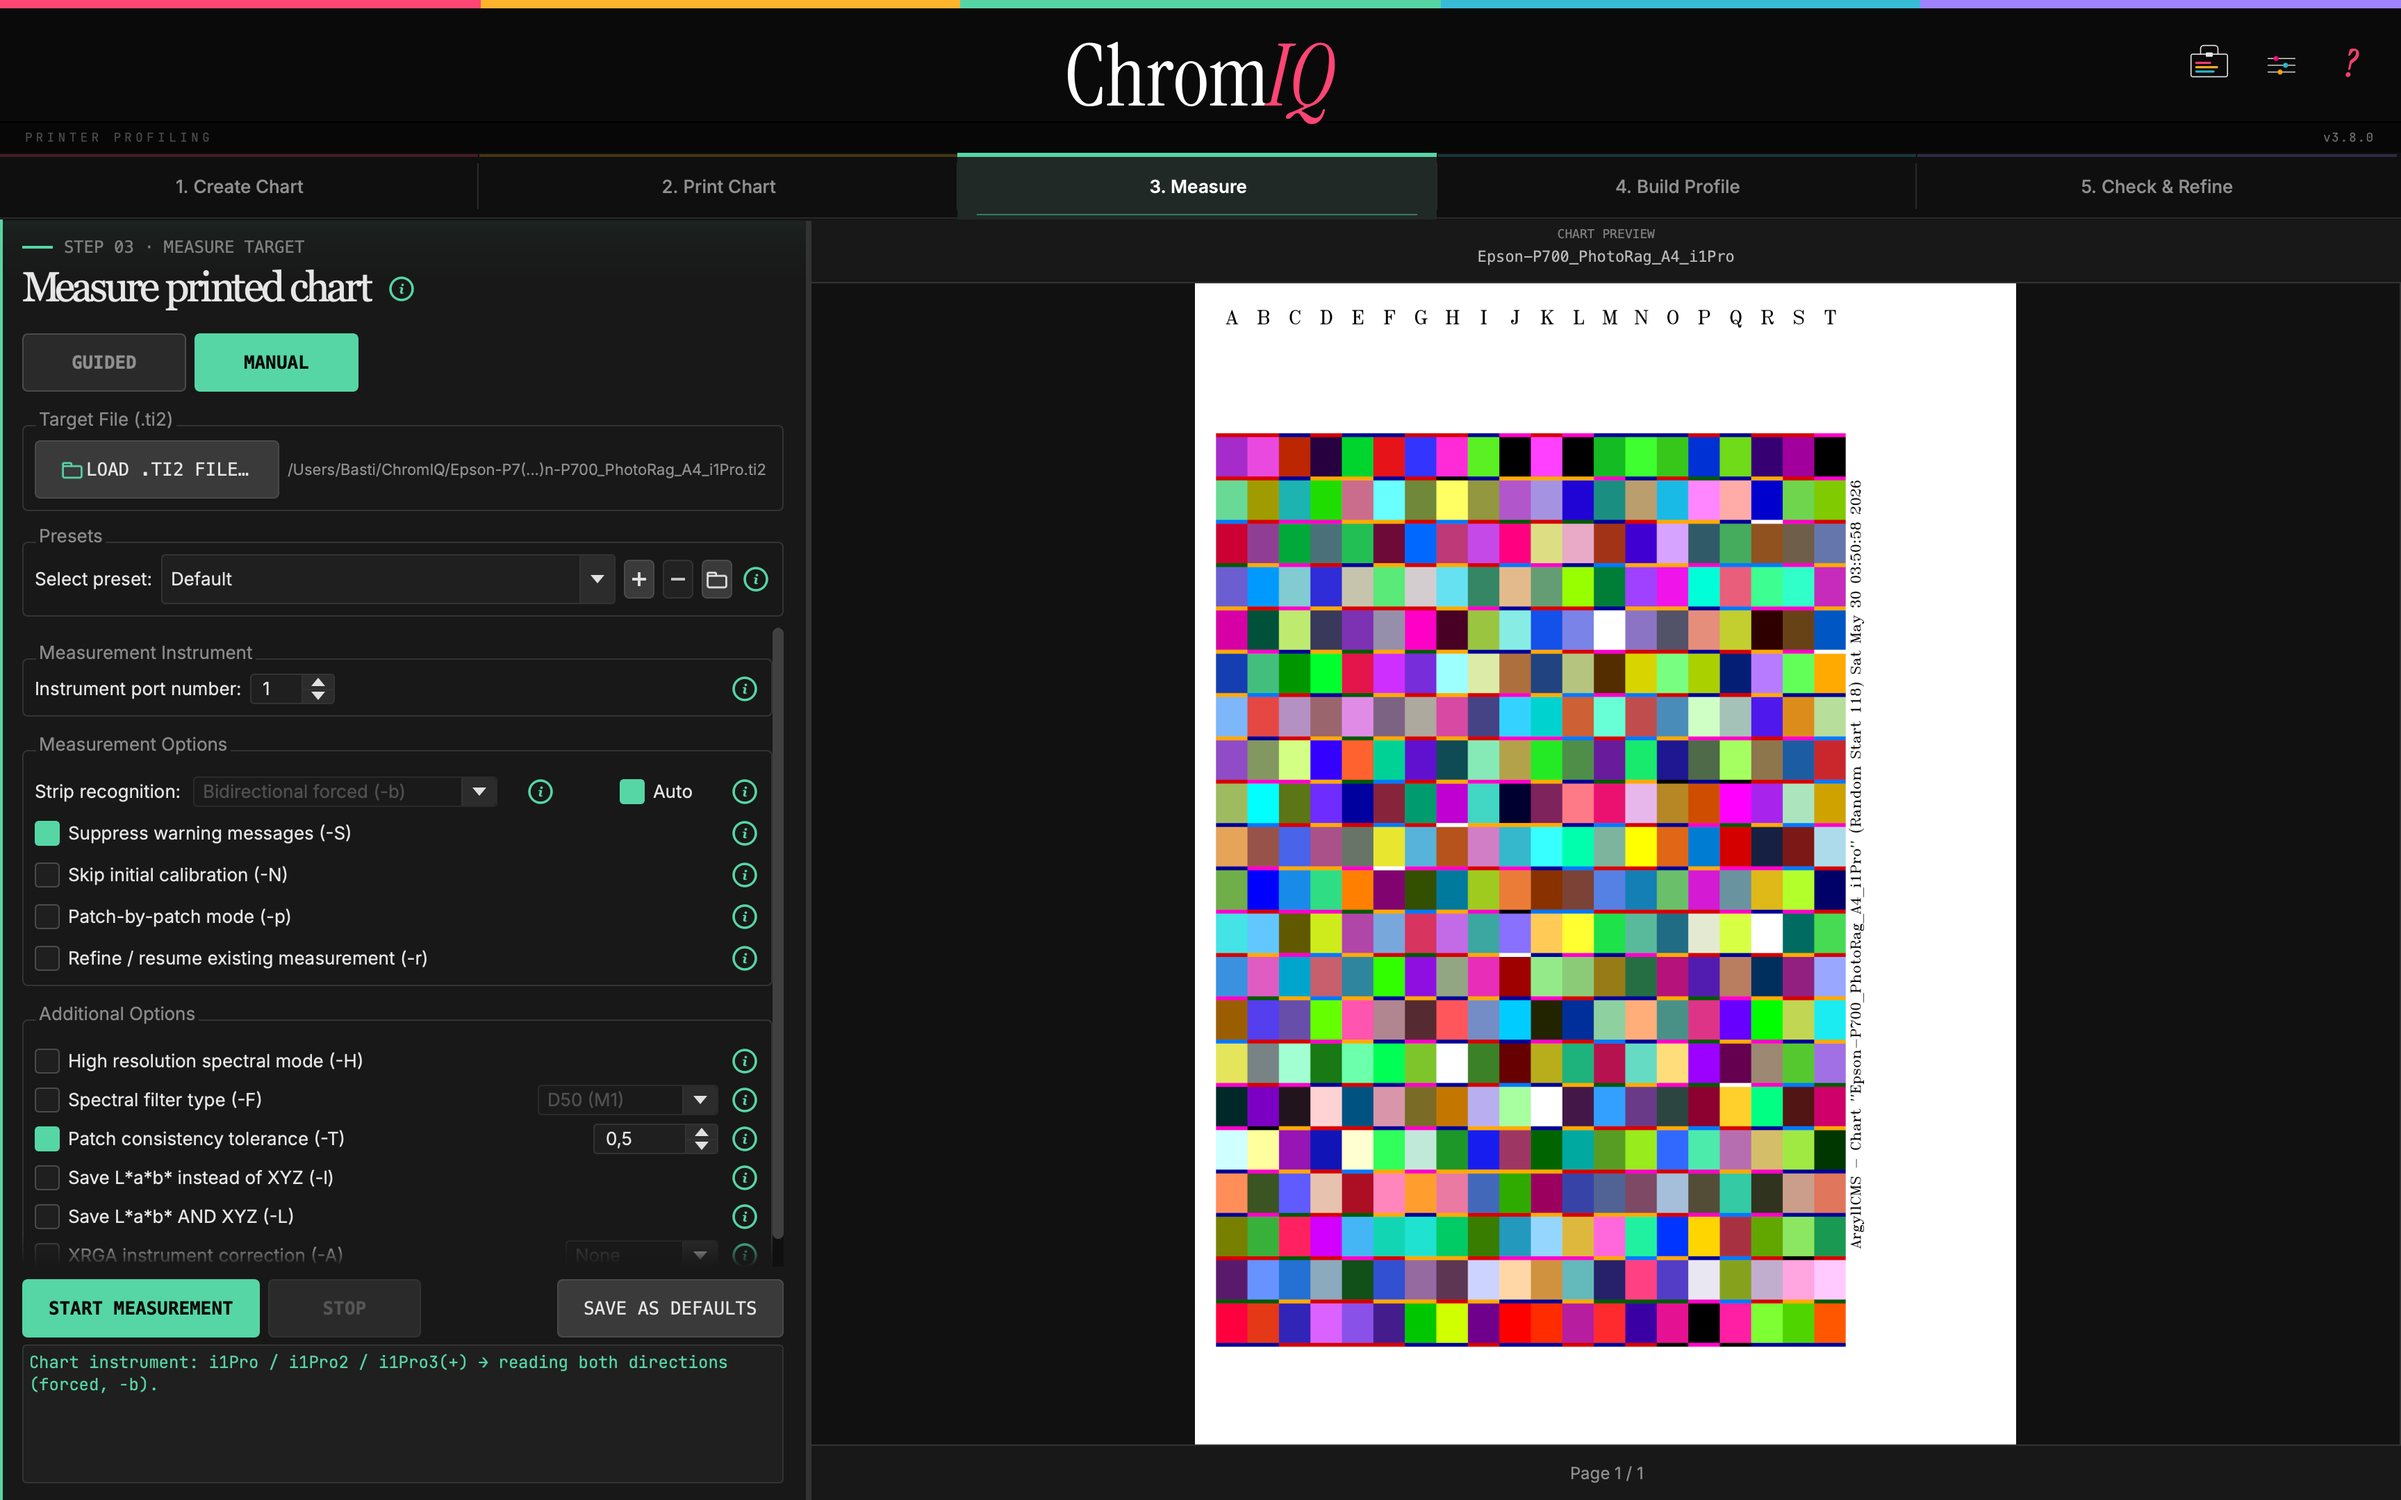
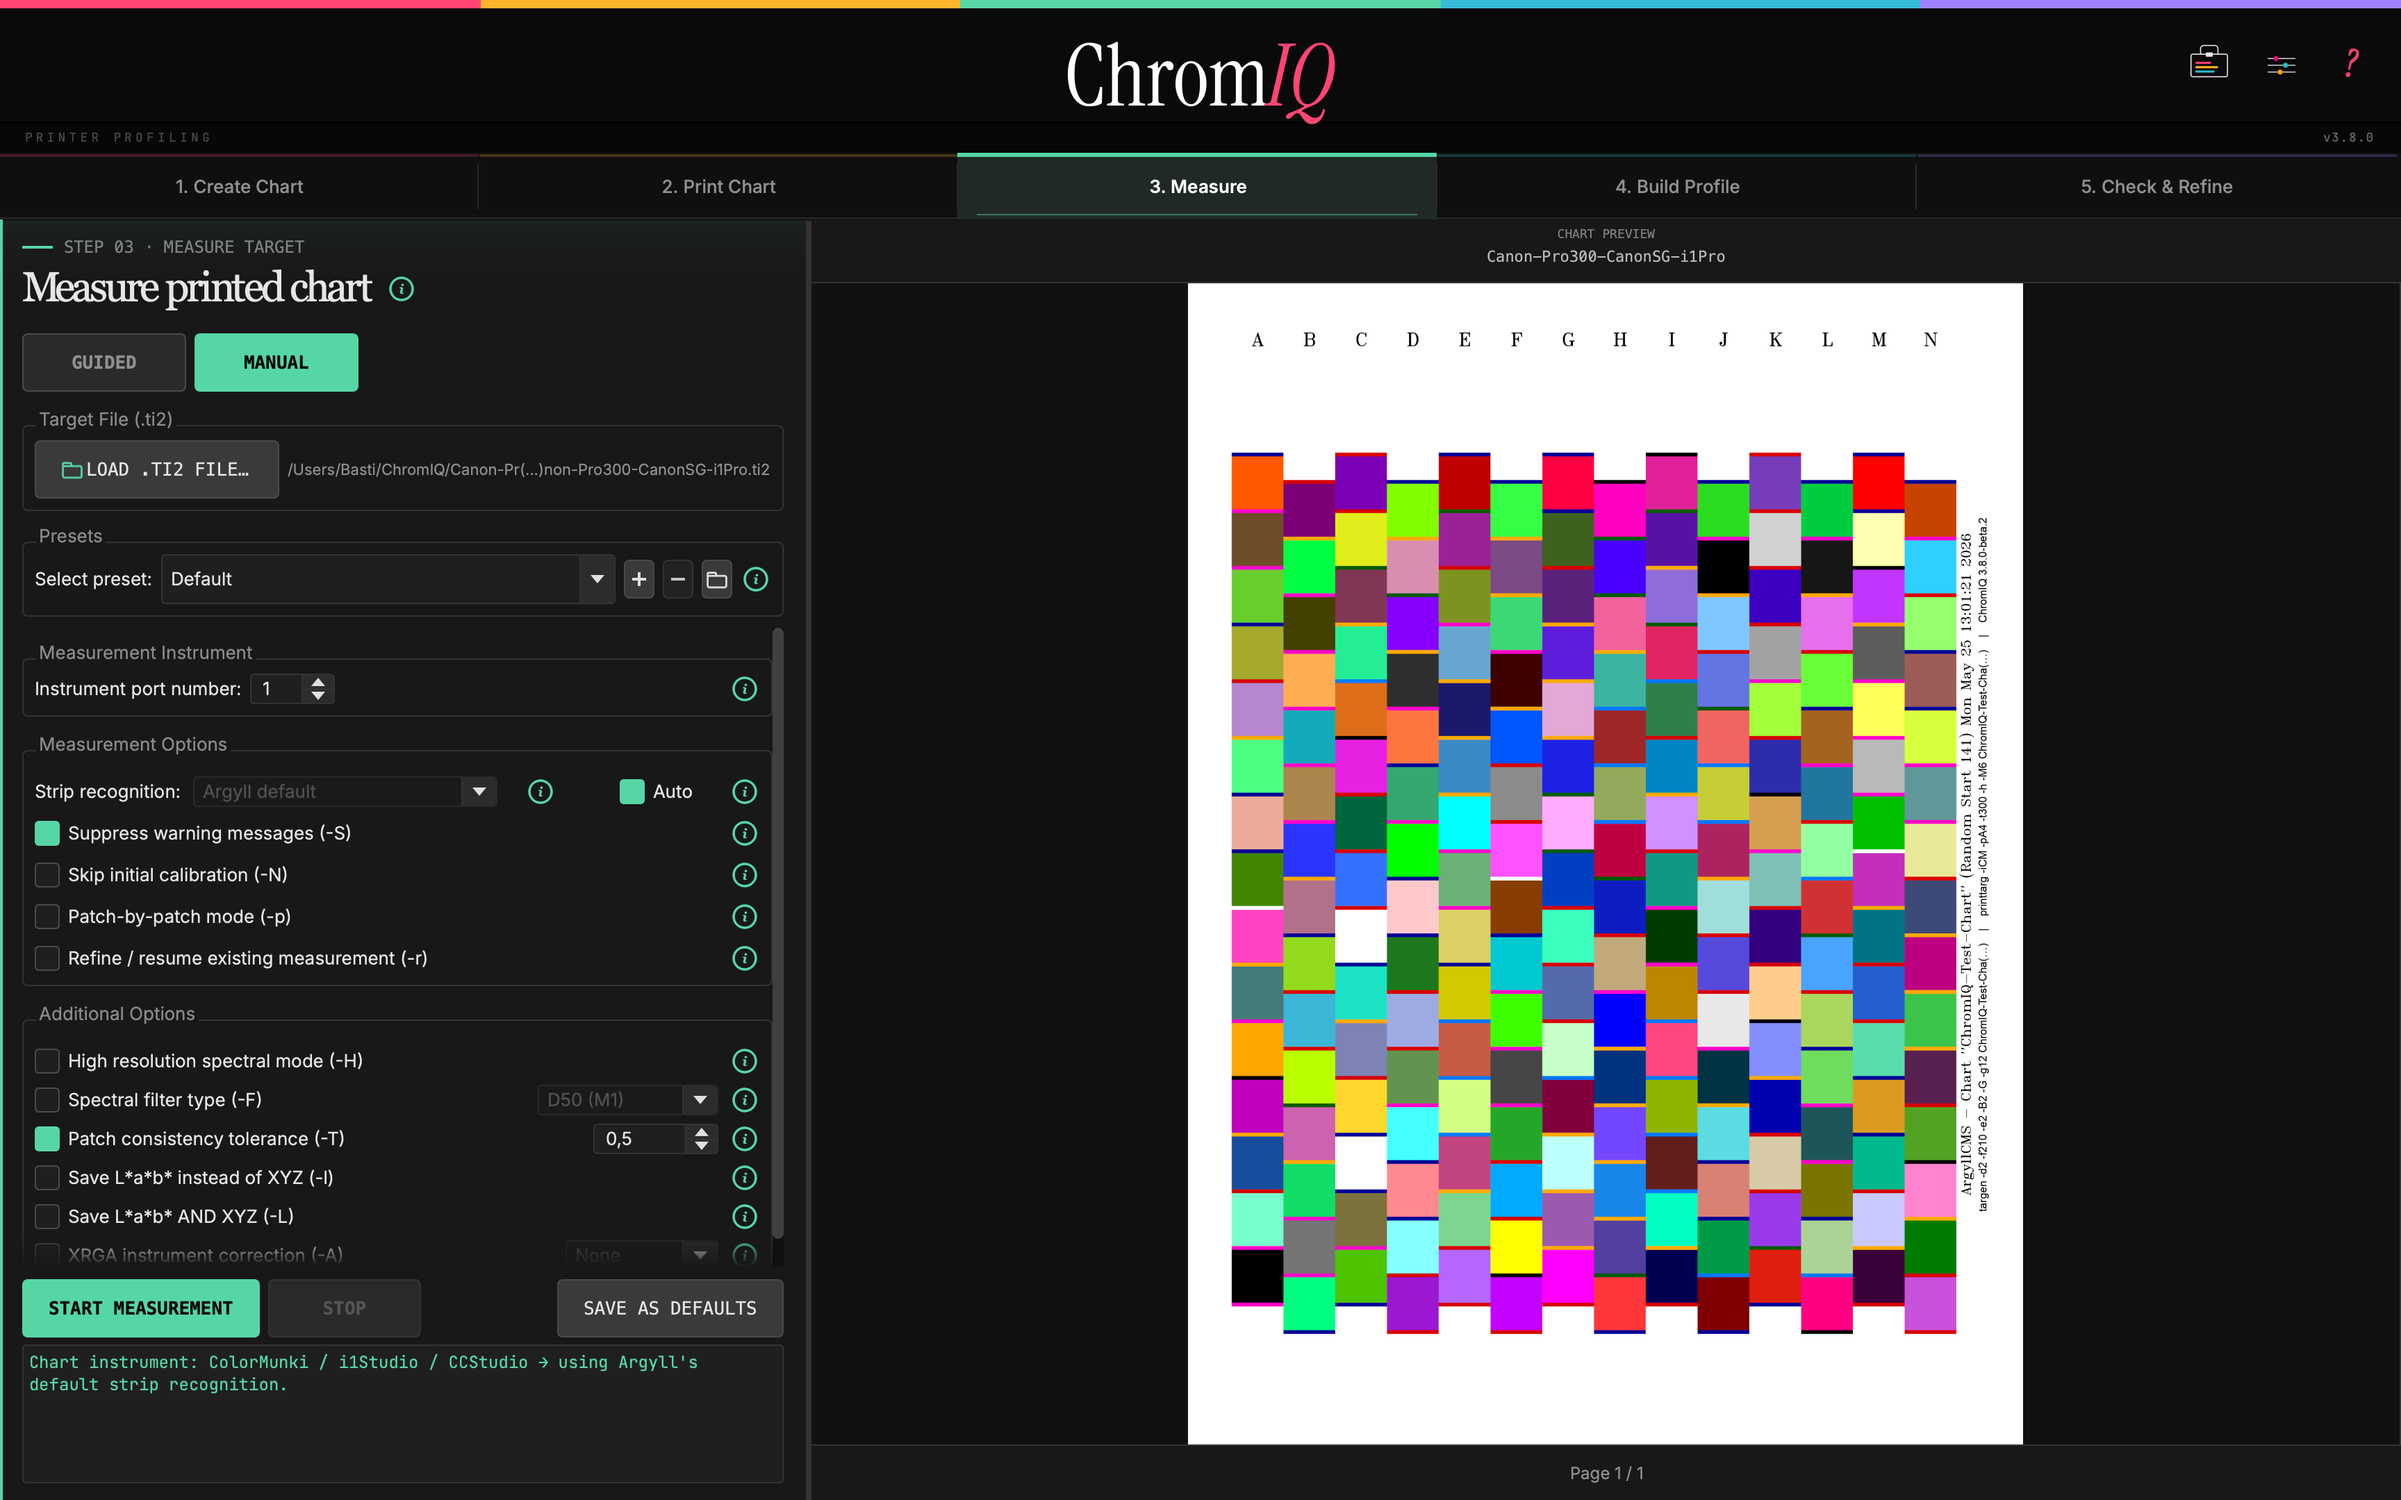
docs: regenerate README screenshots from a real i1Pro project
Switch the capture pipeline to a genuine project (real chartread
measurements + colprof profile) instead of a synthetic sample, and fix
the round-2 review issues:

- Pin guided/manual instrument to i1Pro + A4 so the chart identity is
  coherent with the sample target.
- Re-render the 3D gamut per theme and auto-fit the camera
  (_on_reset_view) so the dark-mode solid is centered, not off-frame.
- Composite result dialogs over their dimmed parent tab so popups are
  shown in context.
- README: Step 3 measure nav is F/B (not arrows); hero image is the
  Create Chart tab; add a Tools-menu subsection.

diff --git a/scripts/capture_screens.py b/scripts/capture_screens.py
@@ -10,10 +10,11 @@ runs a real ``profcheck`` analysis and the 3D gamut render so the panels show
 *actual results*, then walks a list of scenes (set state → wait → grab → save)
 in **both dark and light** themes, and quits on its own.
 
-Sample projects are generated by ``scripts/make_sample_projects.sh`` *inside*
-``~/ChromIQ`` (so the app treats them as native projects). Any file-load dialog
-is monkeypatched to a no-op pass-through for the duration of the run, so no
-modal can ever freeze the capture.
+Screenshots are taken from a **real** project under ``~/ChromIQ`` (a genuine
+i1Pro chart with real ``chartread`` measurements and a real ``colprof``
+profile), so the app treats it as a native project. Any file-load dialog is
+monkeypatched to a no-op pass-through for the duration of the run, so no modal
+can ever freeze the capture.
 
 Usage:
     source .venv/bin/activate
@@ -42,17 +43,19 @@ from ui.main_window import MainWindow
 
 HOME_PROJECTS = Path.home() / "ChromIQ"
 DOCS = ROOT / "docs"
-A_DIR = HOME_PROJECTS / "Epson-P700_PhotoRag_A4_i1Pro"
-B_DIR = HOME_PROJECTS / "Canon-PRO1000_Glossy_A4_i1Pro"
-A = A_DIR / "Epson-P700_PhotoRag_A4_i1Pro"
-B = B_DIR / "Canon-PRO1000_Glossy_A4_i1Pro"
+# Real project: a genuine i1Pro chart with real chartread measurements + a real
+# colprof profile (dropped in under the project stem). No synthetic sample.
+A_DIR = HOME_PROJECTS / "Canon-Pro300-CanonSG-i1Pro"
+A = A_DIR / "Canon-Pro300-CanonSG-i1Pro"
 
 A_TIF = sorted(A_DIR.glob("*.tif"))
 A_TI2 = A.with_suffix(".ti2")
 A_TI3 = A.with_suffix(".ti3")
 A_ICC = A.with_suffix(".icc")
-B_ICC = B.with_suffix(".icc")
-A_NAME = "Epson-P700 PhotoRag A4 i1Pro"
+# Compare profile for the gamut-compare shot: ArgyllCMS's ClayRGB1998 (AdobeRGB)
+# reference, so the two gamut meshes visibly differ from the printer profile.
+B_ICC = Path("/Applications/Argyll/ref/ClayRGB1998.icm")
+A_NAME = "Canon-Pro300 CanonSG i1Pro"
 
 THEMES = ("dark", "light")
 
@@ -209,9 +212,36 @@ def prep_compare(win) -> None:
             pump(50)
             if not win._runner.is_running:
                 break
-        pump(3000)
+        pump(3500)
+        # Auto-fit the camera (X3DOM showAll) so the solid is centered, then let
+        # it settle — otherwise the mesh can sit off-frame in the grab.
+        gp._on_reset_view()
+        pump(1200)
     except Exception as e:
         log(f"compare prep: {e}")
+
+
+def rerender_gamut(win) -> None:
+    """Re-run the single-profile gamut render so the WebGL/X3DOM canvas repaints
+    in the current theme — a theme switch alone does not redraw it, which left
+    the dark-mode 3D view blank."""
+    gp = win._tab_check._gamut_panel
+    try:
+        gp._compare_path = None
+        gp._compare_edit.setText("")
+        gp.set_icc_path(A_ICC)
+        gp._on_run()
+        for _ in range(400):
+            pump(50)
+            if not win._runner.is_running:
+                break
+        pump(3500)
+        # Auto-fit the camera (X3DOM showAll) so the solid is centered, then let
+        # it settle — without this the dark-mode render framed mostly background.
+        gp._on_reset_view()
+        pump(1200)
+    except Exception as e:
+        log(f"gamut rerender: {e}")
 
 
 # ---------------------------------------------------------------------------
@@ -231,6 +261,13 @@ def scene_list():
     def create_manual(app, win):
         win._tab_chart._switch_mode("manual")
         win._tab_chart._manual_target_name_edit.setText(A_NAME)
+        # Match the sample target's identity (built i1Pro / A4) so the manual
+        # panel doesn't show the user's saved instrument/paper.
+        try:
+            win._tab_chart._manual_instr_pw.set_value("i1")
+            win._tab_chart._manual_paper_pw.set_value("A4")
+        except Exception as e:
+            log(f"manual instr/paper: {e}")
         win._tab_chart._preview.load_tiff(A_TIF)
         show_tab(win, "chart")
 
@@ -342,17 +379,30 @@ def capture_dialogs(app, win) -> None:
     — replaying the *real* dialogs the app builds, in both themes.
     """
     from PyQt6.QtWidgets import QDialog
+    from PyQt6.QtGui import QPainter, QColor
 
     orig_exec = QDialog.exec
 
     def make_capture(name, theme):
         def fake_exec(self):
+            # Composite the dialog over its parent window (with a dim overlay) so
+            # the screenshot shows the dialog *in context*, not floating bare.
             self.setModal(False)
             self.show()
             self.raise_()
             pump(700)
             try:
-                grab_save(self, name, theme)
+                base = win.grab()
+                dlg = self.grab()
+                painter = QPainter(base)
+                painter.fillRect(base.rect(), QColor(0, 0, 0, 120))
+                x = (base.width() - dlg.width()) // 2
+                y = (base.height() - dlg.height()) // 2
+                painter.drawPixmap(x, y, dlg)
+                painter.end()
+                out = DOCS / f"{name}-{theme}.png"
+                base.save(str(out))
+                log(f"saved {out.name}  ({base.width()}x{base.height()})")
             finally:
                 self.close()
             return 0
@@ -410,6 +460,11 @@ def main() -> int:
     settings = AppSettings()
     settings.set("show_welcome_dialog", False)
     settings.set("calibration_mode", False)
+    # The sample target is built/named i1Pro on A4; the guided Create panel reads
+    # the instrument/paper from settings, so pin them here (overriding whatever
+    # the user happens to have saved) to keep the chart's identity coherent.
+    settings.set("chart_instrument", "i1")
+    settings.set("chart_paper", "A4")
     apply_appearance(app, None, "dark")
     win = MainWindow(settings)
 
@@ -443,8 +498,11 @@ def main() -> int:
         set_theme(app, win, theme)
         pump(500)
         for sc in scenes:
-            # gamut-compare needs the compare profile loaded (re-run per theme so
-            # the mesh background matches the theme).
+            # The 3D gamut WebGL canvas does not repaint on a theme switch, so
+            # re-render it per theme: scene 11 (single profile) and scene 13
+            # (with the compare profile loaded).
+            if sc["name"].startswith("11-"):
+                rerender_gamut(win)
             if sc["name"].startswith("13-"):
                 prep_compare(win)
             try:

diff --git a/README.md b/README.md
@@ -11,7 +11,7 @@
 </p>
 
 <p align="center">
-  <img src="docs/13-gamut-compare-dark.png" alt="ChromIQ — Check &amp; Refine tab with the 3D gamut viewer comparing two profiles" width="900">
+  <img src="docs/01-create-chart-guided-dark.png" alt="ChromIQ — Create Chart tab with a full A4 test chart in the preview" width="900">
 </p>
 
 ChromIQ is a free, open-source desktop app that builds custom **ICC printer
@@ -201,9 +201,10 @@ instructions for turning ICM off.
 
 ### Step 3 — Measure
 The chart from Step 1 loads automatically. Follow the on-screen prompts:
-**Enter/Space** confirms a strip, **← →** navigate, **Esc** aborts. Misread a
-strip? The dialog offers **Retry**, **Skip Stripe**, or **Save Partial & Quit**
-(which lets you resume later with one click).
+**Enter/Space** confirms a strip, and **F** / **B** step **forward** and **back**
+between strips (the on-screen strip highlight follows along). Misread a strip?
+The dialog offers **Retry**, **Skip Stripe**, or **Save Partial & Quit** (which
+lets you resume later with one click).
 
 ### Step 4 — Build Profile
 Review the `colprof` settings and click **Build Profile**. Then **Install
@@ -329,6 +330,17 @@ a System/Auto mode that follows your OS live). Click any step to expand it.
   in ΔE³, Lab / CIECAM02 Jab, cusp markers, and edge plots.
 - **Profile-vs-profile comparison** — volume delta, intersection volume, and
   bidirectional coverage.
+
+### Tools menu — standalone utilities
+The masthead **Tools** button opens a menu of conversions and checks you can run
+on their own, outside the five-step flow:
+- **Edit / create chart layout** — reorder strips or build a custom patch layout.
+- **Average measurements** — combine repeat reads of the same chart for lower noise.
+- **Merge measurements** — fold extra measurements into an existing set.
+- **Convert TI1 → i1Profiler** and **Convert i1Profiler → TI1 / TI3** — move charts
+  and measurements between ChromIQ/ArgyllCMS and X-Rite i1Profiler.
+- **Verify a profile** (independent check) and **Verify against reference** —
+  validate an existing profile's accuracy without rebuilding it.
 
 ### A calm, modern app
 - **Light / Dark / System (Auto)** appearance that follows your OS theme live.
